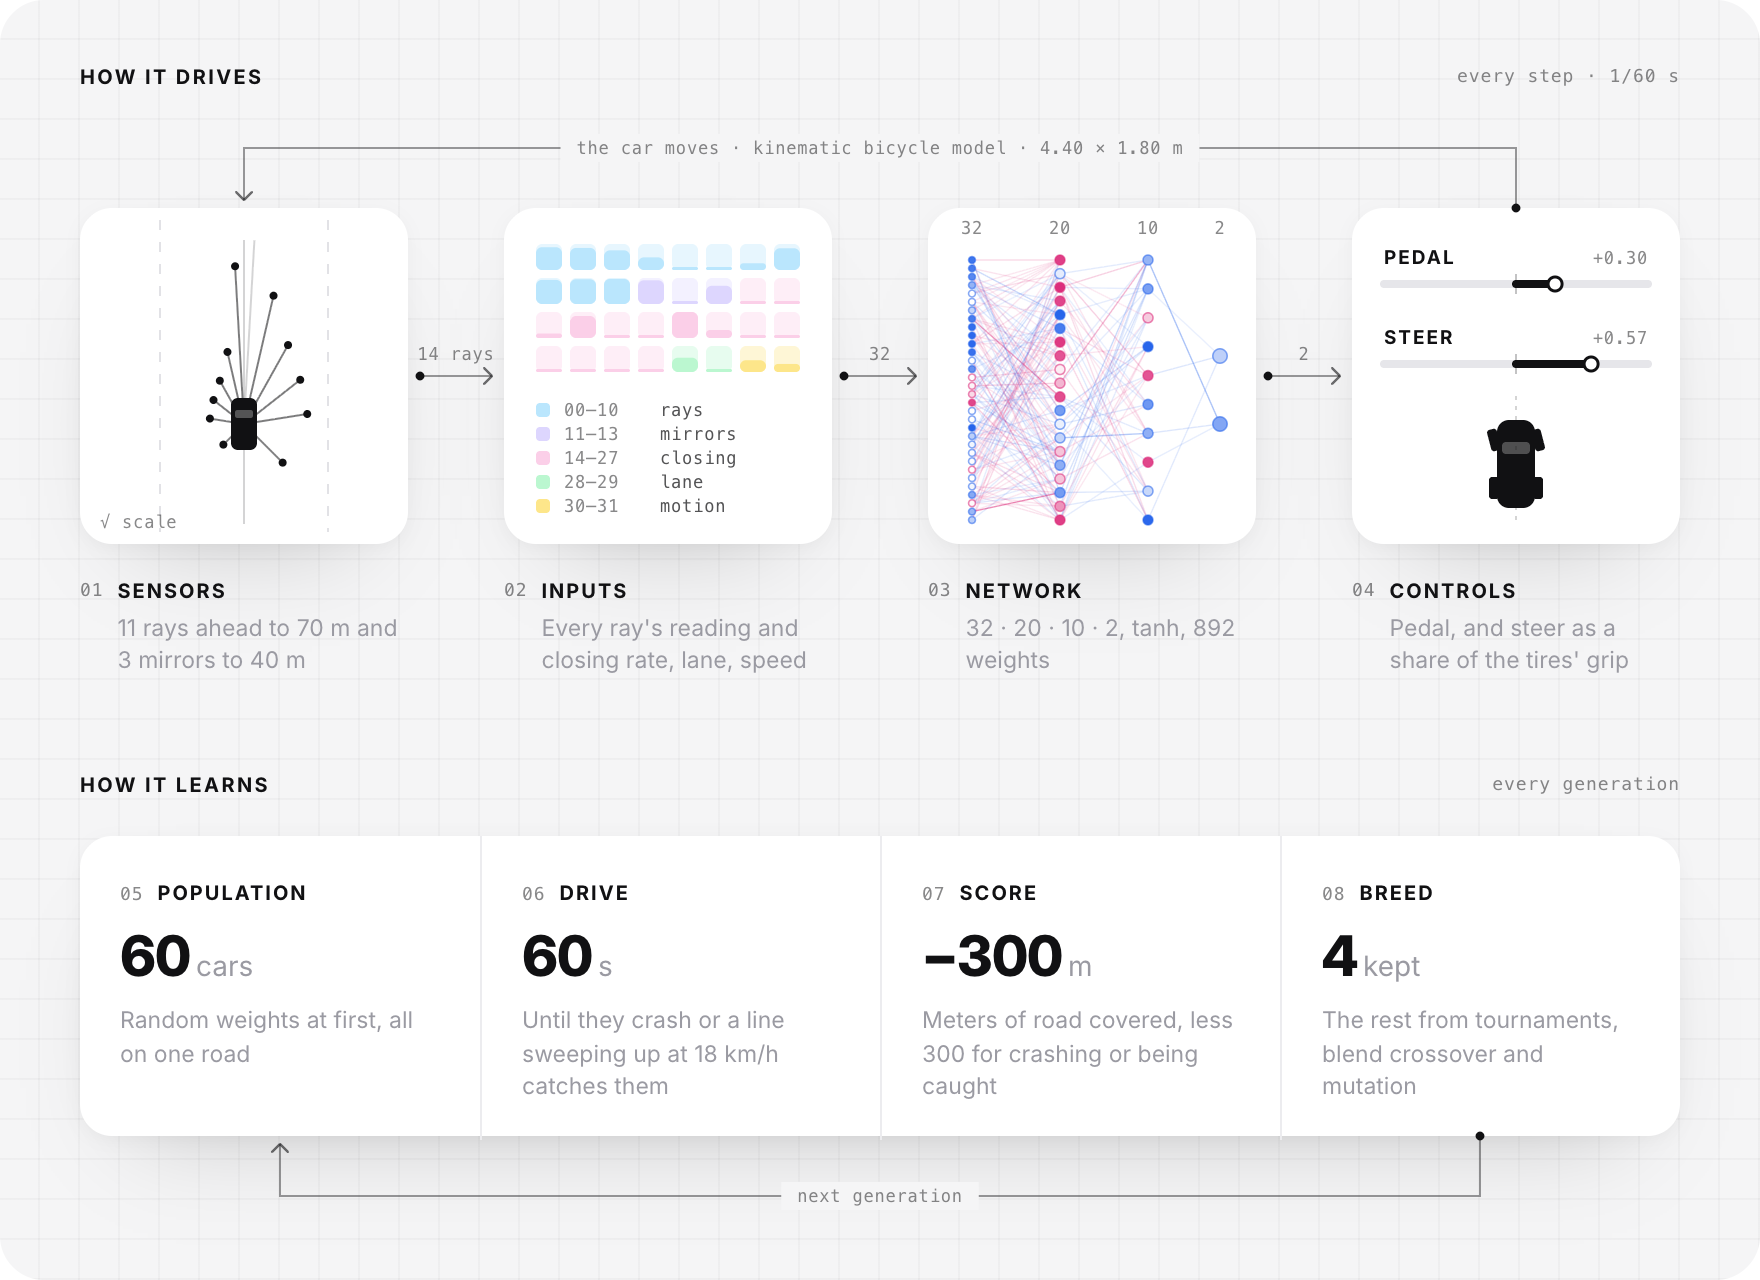
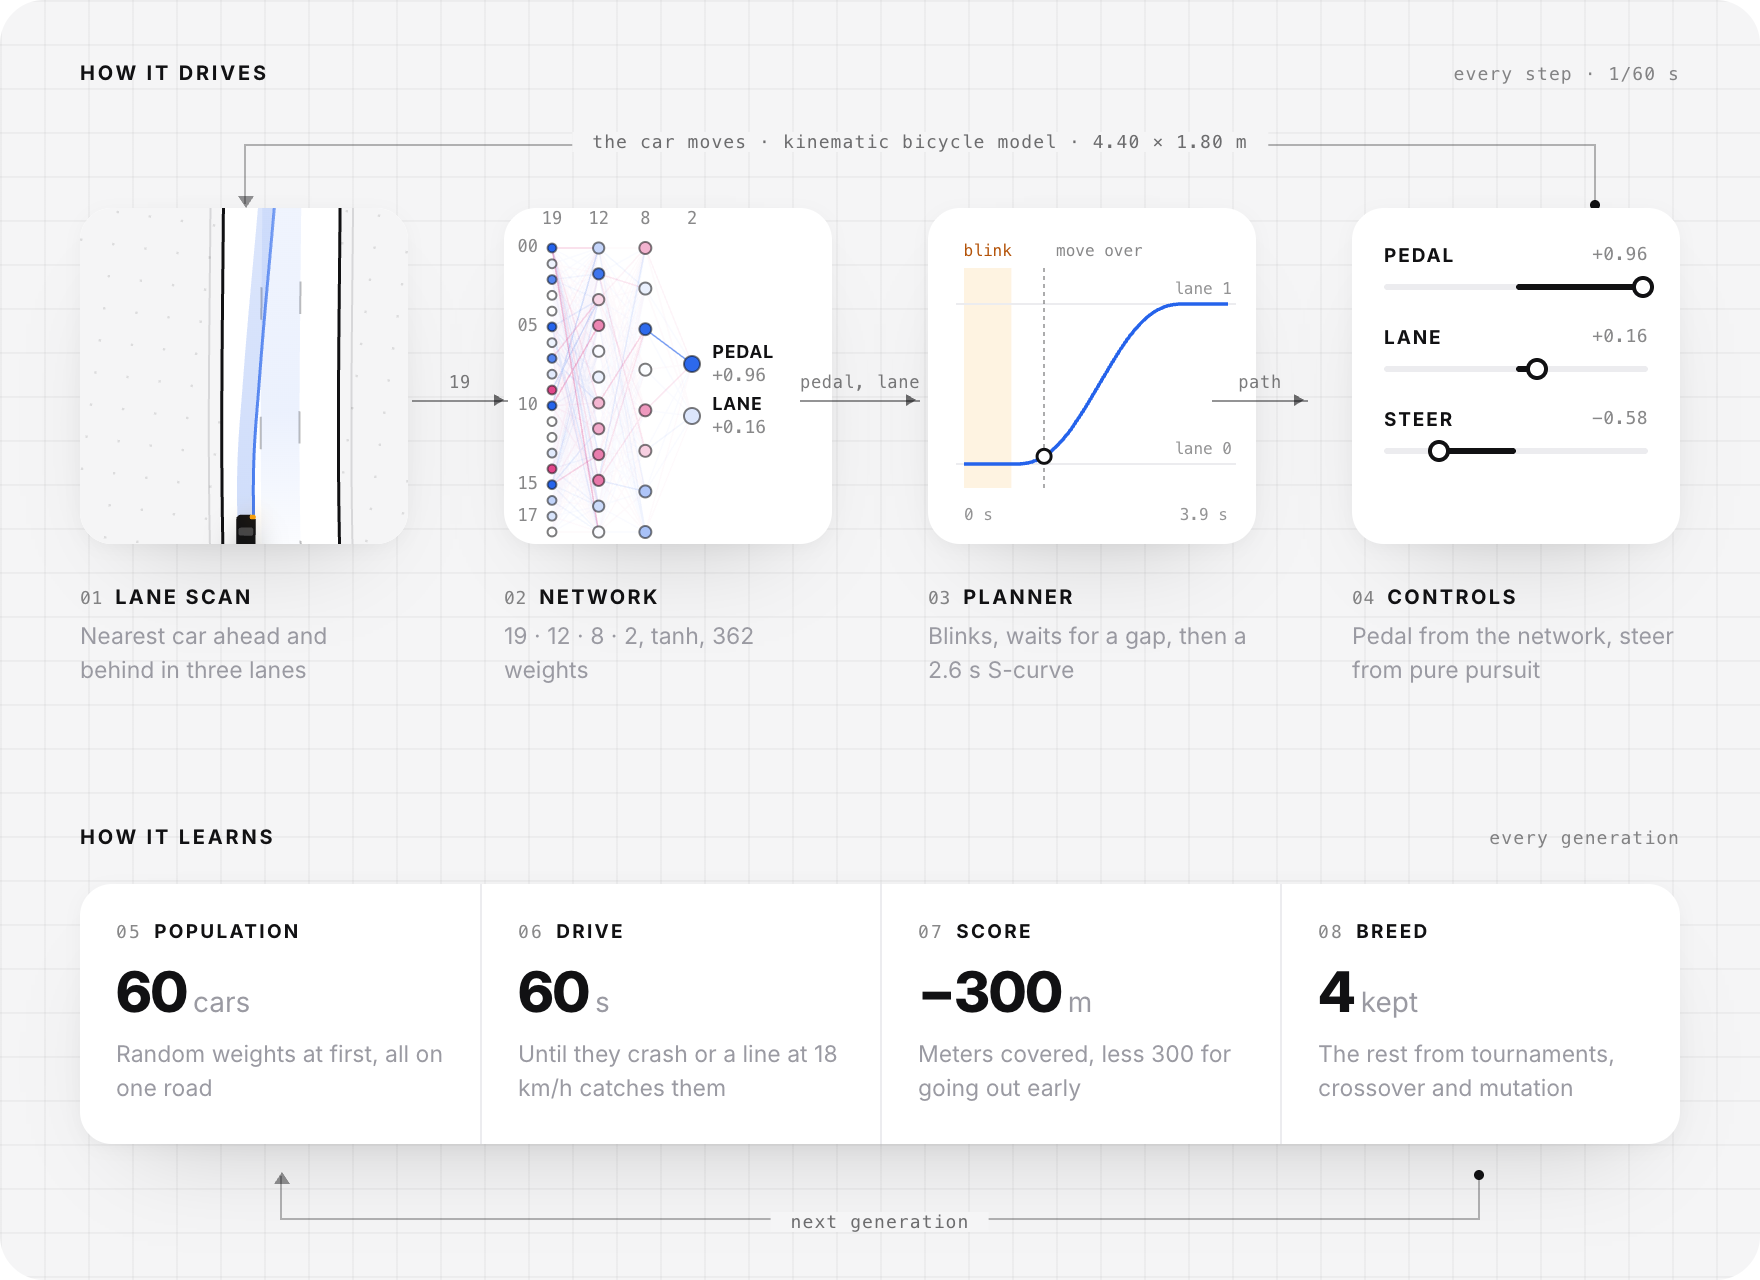
readme, hero and screenshots for the lane-change driver

diff --git a/README.md b/README.md
@@ -1,9 +1,9 @@
 # self-driving-car
 
-A small neural network that taught itself to drive a curvy three-lane highway through traffic, by evolution, in plain JavaScript.
+A small neural network that taught itself, by evolution, to drive a curvy three-lane highway through traffic: hold the lane, brake in time, and signal and overtake when the next lane is faster. Plain JavaScript.
 
 <p align="center">
-  <a href="https://stxqq.github.io/self-driving-car/"><img src=".github/assets/hero.gif" width="880" alt="The pretrained car overtaking traffic on a curving highway, with its sensor rays and the network that drives it"></a>
+  <a href="https://stxqq.github.io/self-driving-car/"><img src=".github/assets/hero.gif" width="880" alt="The pretrained car signaling and changing lanes to overtake slower traffic, its planned path curving into the next lane, next to the network that drives it"></a>
 </p>
 
 <p align="center">
@@ -20,49 +20,78 @@ become the parents of the next. The page lets you watch the trained driver,
 evolve your own from random weights in the browser, or take the wheel
 yourself while the network shows what it would have done.
 
-There is no library underneath: the road, the car, the sensors, the traffic,
-the network and the genetic algorithm are about 1,200 lines of ES modules
-that run unchanged in the browser and in Node.
+The driving is split the way a driver-assist system splits it. The network
+decides the pedal and which lane it wants to be in. A planner turns "the
+lane to the left" into a lane change: it blinks, waits for the gap, moves
+over on a smooth S-curve and settles in the center of the new lane. The
+blue ribbon on the page is that plan.
+
+There is no library underneath: the road, the car, the perception, the
+planner, the traffic, the network and the genetic algorithm are about
+1,300 lines of ES modules that run unchanged in the browser and in Node.
 
 ## How it works
 
 <p align="center">
-  <img src=".github/assets/how-it-works.png" width="880" alt="Diagram: sensors feed 32 inputs into a 32-20-10-2 network whose pedal and steer move the car every 1/60 s; each generation 60 cars drive one road, are scored by distance, and the best four seed the next">
+  <img src=".github/assets/how-it-works.png" width="880" alt="Diagram: a lane scan feeds 19 inputs into a 19-12-8-2 network whose pedal and lane outputs go to a planner that blinks, waits for a gap and steers an S-curve; each generation 60 cars drive one road, are scored by distance, and the best four seed the next">
 </p>
 
-Every 1/60 s the car reads its rays, the network turns 32 numbers into a
-pedal and a steering command, and the car moves. The values in the diagram
-are one real moment from the shipped brain, 20 seconds into a run.
+Every 1/60 s the car scans the lanes, the network turns 19 numbers into a
+pedal and a lane, the planner turns the lane into steering, and the car
+moves. The values in the diagram are one real moment from the shipped
+brain, a fifth of the way into a lane change.
 
 - **Road.** A seeded highway built from clothoids, so curvature ramps
-  smoothly and there are no kinks for the rays to trip on. It is generated
+  smoothly and there are no kinks to trip the steering. It is generated
   lazily as the car drives.
 - **Car.** A kinematic bicycle model in SI units (4.4 m long, 32 m/s top
   speed). Steer asks for a share of the available cornering grip rather than
   a wheel angle, so the same output means the same sideways pull at 30 km/h
-  and at 110 km/h.
-- **Sensors.** Eleven rays fan out ahead to 70 m, packed toward the nose,
-  and three mirror rays look back 40 m. Each ray also reports how fast its
-  reading is changing, because one frame of distances can't tell a parked
-  car from one doing 100 km/h.
-- **Traffic.** Background cars follow the Intelligent Driver Model, keep to
-  speed bands per lane and overtake on the left. Traffic never sees the
-  learning cars and never makes room for them. That keeps a seed fully
-  deterministic however many cars are learning on it, and it makes the task
-  harder: cars cut in ahead and occasionally run into you from behind.
+  and at 110 km/h. Take a 110 m bend at full speed and the grip runs out.
+- **Perception.** Not raw pixels or rays but what a camera stack hands its
+  planner: for the lane to the left, the car's own lane and the lane to the
+  right, whether the lane exists, the nearest car ahead and behind (up to
+  90 m and 45 m) and how fast each gap is closing. Plus speed, the sharpest
+  curve in the next 100 m, and the planner's state. 19 inputs.
+- **Network.** 19 · 12 · 8 · 2, tanh, 362 weights. Two outputs: the pedal,
+  and the lane, where above +0.5 asks for the lane to the left and below
+  −0.5 for the one to the right.
+- **Planner.** Hand-written, not learned. On a request it blinks for 0.7 s,
+  then moves over along a quintic S-curve (zero sideways speed and
+  acceleration at both ends) in 2.6 s, and steers along it with pure
+  pursuit about half a second ahead. Letting go of the request while it
+  blinks calls the change off. The one decision it makes on its own: it
+  won't start moving while a car in the target lane is level with it or
+  about to be, the way blind-spot monitoring holds a lane change; it keeps
+  blinking and goes when the gap opens. Everything else, including whether
+  to change lanes at all and how hard to brake for a car that cuts in, is
+  up to the network.
+- **Traffic.** Background cars follow the Intelligent Driver Model, want
+  speeds between 61 and 94 km/h with every lane mixing slow and fast,
+  overtake on the left and move back right once past. They blink for 1.2 s
+  before changing lanes and never look for the learning cars, which keeps a
+  seed fully deterministic however many cars are learning on it, and makes
+  the task harder: a car that cuts in is only announced by its indicator.
 - **Fitness.** Meters of road covered, minus 300 for crashing or for being
-  caught by a line that sweeps up the road at 18 km/h.
+  caught by a line that sweeps up the road at 18 km/h. Nothing rewards a
+  lane change as such; the network overtakes because it covers more road.
 - **Evolution.** Elitism (the best four carry over), tournament selection,
   BLX-0.25 blend crossover and gaussian mutation whose rate and size decay
   with a 40-generation half-life.
 
+Before the planner the network steered directly from a fan of ray sensors.
+It learned to hold a lane and to dodge, but it mostly sat in the fast lane
+behind whoever was there. With the steering handed to a planner, the search
+only has to find *when* and *where*, and overtaking became the thing that
+separates a good driver from a safe one.
+
 The simulation is deterministic down to the last bit: same seed, same
-brains, same trajectories, on every Node release from 20 to 25. (It avoids
-`**` in the physics for that reason; V8 changed its `pow` between releases.) The test suite
-replays all 30 held-out runs and checks them to the meter.
+brains, same trajectories. (It avoids `**` in the physics for that reason;
+V8 changed its `pow` between releases.) The test suite replays all 30
+held-out runs and checks them to the meter.
 
 <p align="center">
-  <img src=".github/assets/anatomy.png" width="440" alt="The page's spec sheet of the car in focus: sensors, network, controls, fitness, drawn live">
+  <img src=".github/assets/anatomy.png" width="440" alt="The page's spec sheet of the car in focus: lane scan, network, controls, planner, fitness, drawn live">
 </p>
 
 ## Quickstart
@@ -83,36 +112,38 @@ Training runs headless across worker threads. By default it writes to
 `runs/brain.json`, so it never touches the shipped brain:
 
 ```console
-$ node scripts/train.mjs --generations 15 --population 120 --seeds 3 --seconds 60 --density 0
-13 workers, population 120, 3 seeds x 60 s, traffic x0
+$ node scripts/train.mjs --generations 10 --population 120 --seeds 3 --seconds 60
+13 workers, population 120, 3 seeds x 60 s, traffic x1
  gen   best m   mean m  alive    mut     s
-   0      415       14      0  0.150   0.2
-   1      833       26      0  0.148   0.1
+   0     1344      351     22  0.150   0.3
+   1     1359      466     12  0.148   0.1
+   2     1204      452     17  0.146   0.1
    ...
-  13     1721      137      1  0.126   0.1
-  14     1124      105      0  0.124   0.1
-      validation 1406 m, saved runs/brain.json
-done in 0.0 min, best validation 1406 m
+   7     1287      650     15  0.136   0.1
+   8     1286      570     18  0.134   0.1
+   9     1356      691     17  0.133   0.1
+done in 0.0 min, best validation 1237 m
 ```
 
-`--density` scales the traffic, so a driver can learn to hold a lane at speed
-on an empty road before meeting anyone. `--resume` starts from the brain at
-`--out` with gentler mutation. The schedule behind the shipped brain is
-`scripts/curriculum.sh`: empty road, traffic faded in over four stages, then
-five-minute episodes on full traffic. Its last two stages took 10 and 18
-minutes on a 14-core laptop.
+Even generation 0 has cars that drive a full minute, because the planner
+keeps every one of them in its lane; the mean is what climbs. `--density`
+scales the traffic and `--resume` starts from the brain at `--out` with
+gentler mutation. The schedule behind the shipped brain is
+`scripts/curriculum.sh`: two-minute episodes in full traffic, then
+five-minute ones on more and more roads per generation. The whole thing
+took about 50 minutes on a 14-core laptop.
 
 To score a brain on roads it has never seen:
 
 ```console
 $ node scripts/evaluate.mjs --seeds 9001,9002,9003,9004,9005
- seed   meters      s   km/h  ended
- 9001     4716  300.0   56.6  time
- 9002     1792  119.8   53.8  crashed
- 9003     4659  300.0   55.9  time
- 9004     4723  300.0   56.7  time
- 9005     4739  300.0   56.9  time
-mean 4126 m, median 4716 m, 4 of 5 still on the road at the end
+ seed   meters      s   km/h  lanes  ended
+ 9001     7332  300.0   88.0     34  time
+ 9002     6790  300.0   81.5     28  time
+ 9003     7056  300.0   84.7     31  time
+ 9004     6478  300.0   77.7     27  time
+ 9005     7007  300.0   84.1     32  time
+mean 6933 m, median 7007 m, 5 of 5 still on the road at the end, 4.4 lane changes per km
 ```
 
 Brains trained in the page can be exported as JSON and loaded back with
@@ -120,35 +151,40 @@ Import, or passed to `evaluate.mjs --brain`.
 
 ## Results
 
-The shipped brain (`src/brains/pretrained.json`, 892 weights) on 30 seeds it
+The shipped brain (`src/brains/pretrained.json`, 362 weights) on 30 seeds it
 was never trained or validated on, five minutes each, full traffic:
 
-| | |
-|---|---|
-| Mean distance | 4.05 km |
-| Median distance | 4.66 km |
-| Still on the road after five minutes | 20 of 30 |
-| Average speed | 56 km/h |
-| Shortest run | 1.39 km |
+| | before (rays, steering) | now (lane scan, planner) |
+|---|---|---|
+| Mean distance | 4.05 km | 6.85 km |
+| Median distance | 4.66 km | 7.06 km |
+| Still on the road after five minutes | 20 of 30 | 27 of 30 |
+| Average speed | 56 km/h | 85 km/h |
+| Lane changes | – | 4.2 per km |
+| Shortest run | 1.39 km | 0.61 km |
+
+"Before" is the previous version of this project, a 32-20-10-2 network
+steering straight from 14 ray sensors, on the old traffic. The traffic is
+different now (every lane mixes slow and fast cars, and cars blink before
+moving over), so the two columns are not the same exam; the old driver
+mostly followed the fast lane, the new one overtakes about every 240 m.
 
 Every number comes from `npm run evaluate -- --write`, which writes
-`scripts/results.json`; the page reads the same file. A run that survives
-covers about 4.7 km, so the mean is pulled down by the ten crashes. It
-likes to live in the fast lane, and that is where all ten happen: seven are
-traffic changing lanes while level with it or just ahead (traffic doesn't
-look for it), three are slower cars in its lane that it brakes for too late.
-None of them is the road edge. Two runs out of three is an honest number for
-a 32-input network on roads it has never seen, and there is room to do
-better.
+`scripts/results.json`; the page reads the same file. Traffic tops out at
+94 km/h and the car at 115, so the average speed is what overtaking buys.
+Of the three crashes, one happens while moving over, the other two at full
+speed into slower traffic it brakes for too late, both in the last
+fifteen seconds. Nothing in the fitness asks it to keep right after an
+overtake, and it doesn't.
 
 <p align="center">
-  <img src=".github/assets/train.png" width="880" alt="Train mode: generation 31 of an in-browser run, with the best and mean distance per generation">
+  <img src=".github/assets/train.png" width="880" alt="Train mode: an in-browser run a few minutes in, with the best and mean distance per generation">
 </p>
 
 ## Project layout
 
 ```
-src/sim/       road, car, sensors, traffic, world, brain, evolution (no DOM)
+src/sim/       road, car, perception, planner, traffic, world, brain, evolution (no DOM)
 src/render/    canvas stage, network view, anatomy spec sheet, svg chart
 src/ui/        the page: sessions for watch, train and drive, storage, keys
 src/brains/    pretrained.json
@@ -158,11 +194,14 @@ test/          node:test suites, including the held-out replay
 
 ## Credits
 
-- The idea of a car with a fan of ray sensors feeding a small network, built
-  from scratch in the browser, is the one Radu Mariescu-Istodor made popular
-  with his JavaScript self-driving car course. This one swaps the fixed
-  track for a procedural highway with modeled traffic and evolves a whole
-  population, but the starting point is his.
+- The idea of a small network driving a car in the browser, built from
+  scratch, is the one Radu Mariescu-Istodor made popular with his
+  JavaScript self-driving car course; this project started from his ray
+  sensors. The split into perception, a learned decision and a planner
+  that blinks and steers is the shape of production driver-assist systems
+  such as Tesla Autopilot, not anything from their code.
+- Steering is pure pursuit, from Coulter, *Implementation of the Pure
+  Pursuit Path Tracking Algorithm* (CMU-RI-TR-92-01, 1992).
 - Traffic uses the Intelligent Driver Model from Treiber, Hennecke and
   Helbing, *Congested traffic states in empirical observations and
   microscopic simulations* (Phys. Rev. E, 2000).
